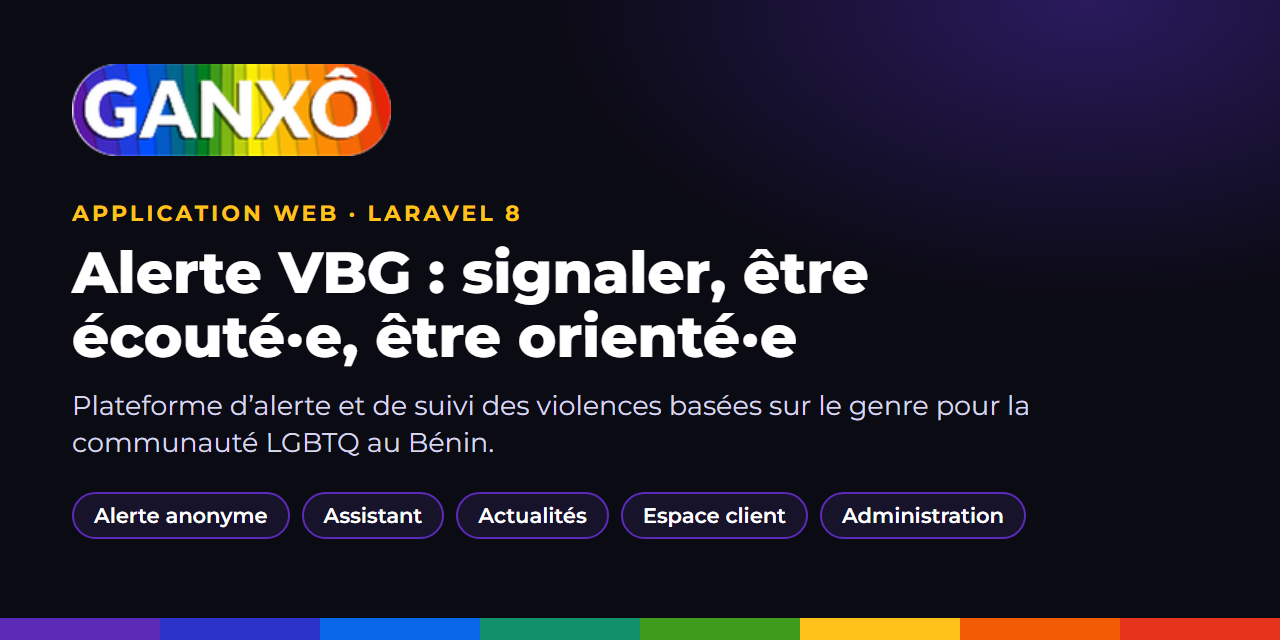
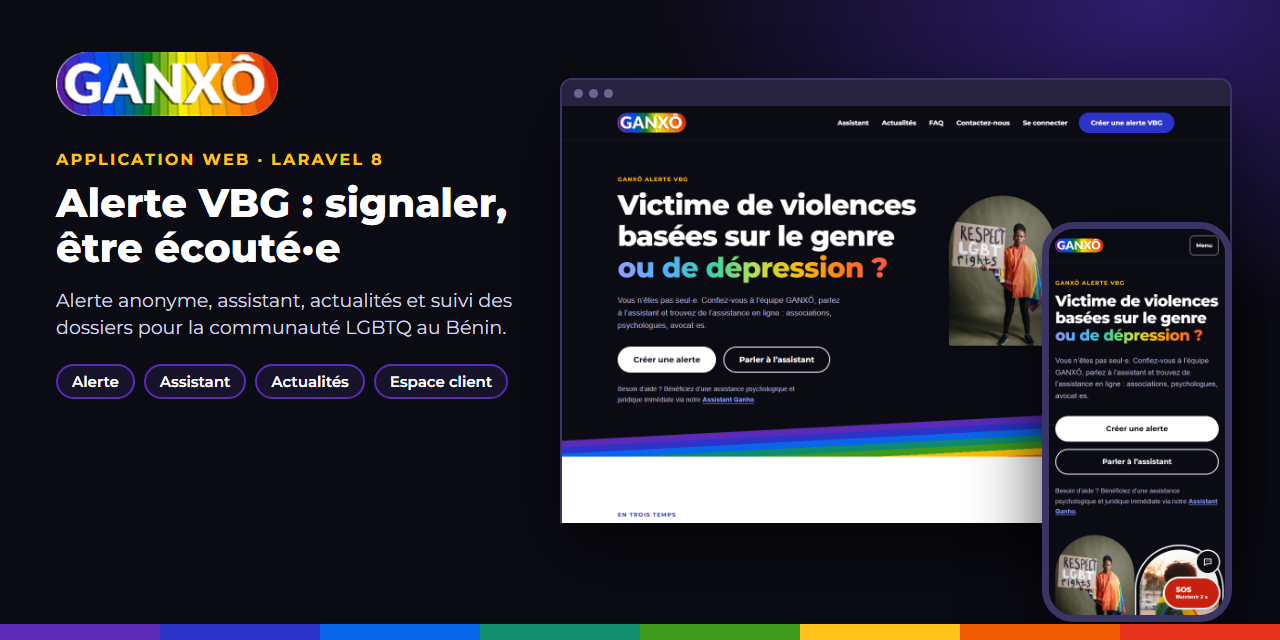
Aperçu social : captures réelles en cadres ordinateur et téléphone

diff --git a/README.md b/README.md
@@ -1,4 +1,4 @@
-<p align="center"><img src="docs/social-preview.png" alt="Alerte VBG GANXÔ : plateforme d'alerte et de suivi des violences basées sur le genre pour la communauté LGBTQ au Bénin" width="100%"></p>
+<p align="center"><img src="docs/social-preview.png" alt="GANXÔ Alerte VBG : le logo, le slogan et deux captures du site sur ordinateur et sur téléphone" width="100%"></p>
 
 # GANXÔ · Alerte VBG
 
